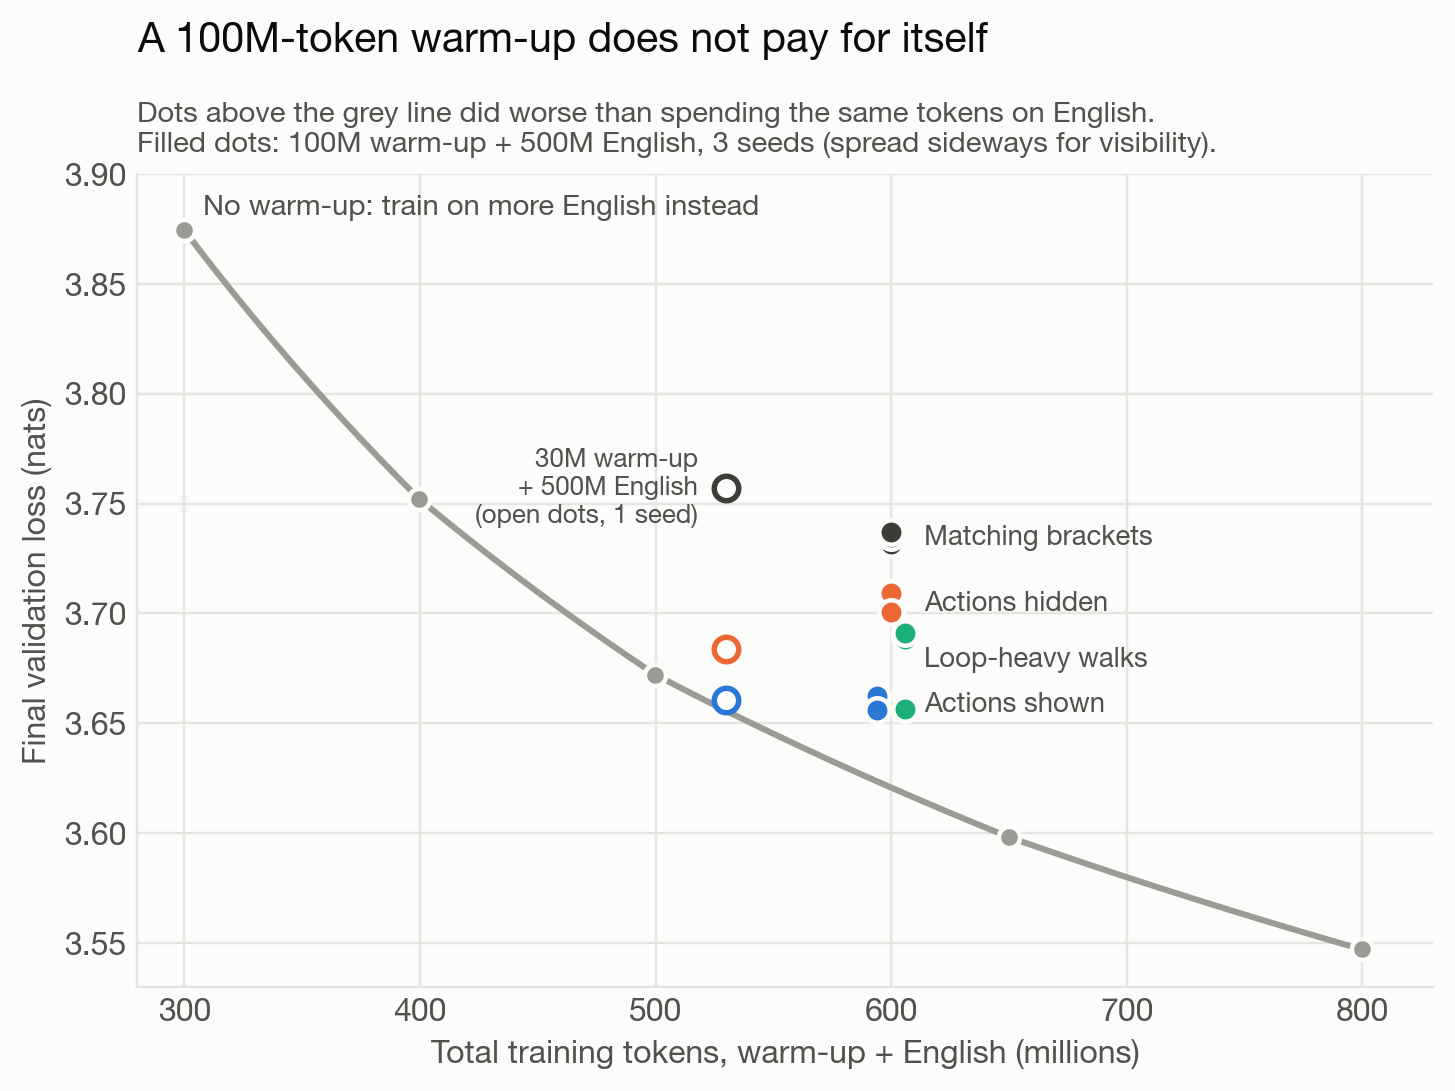
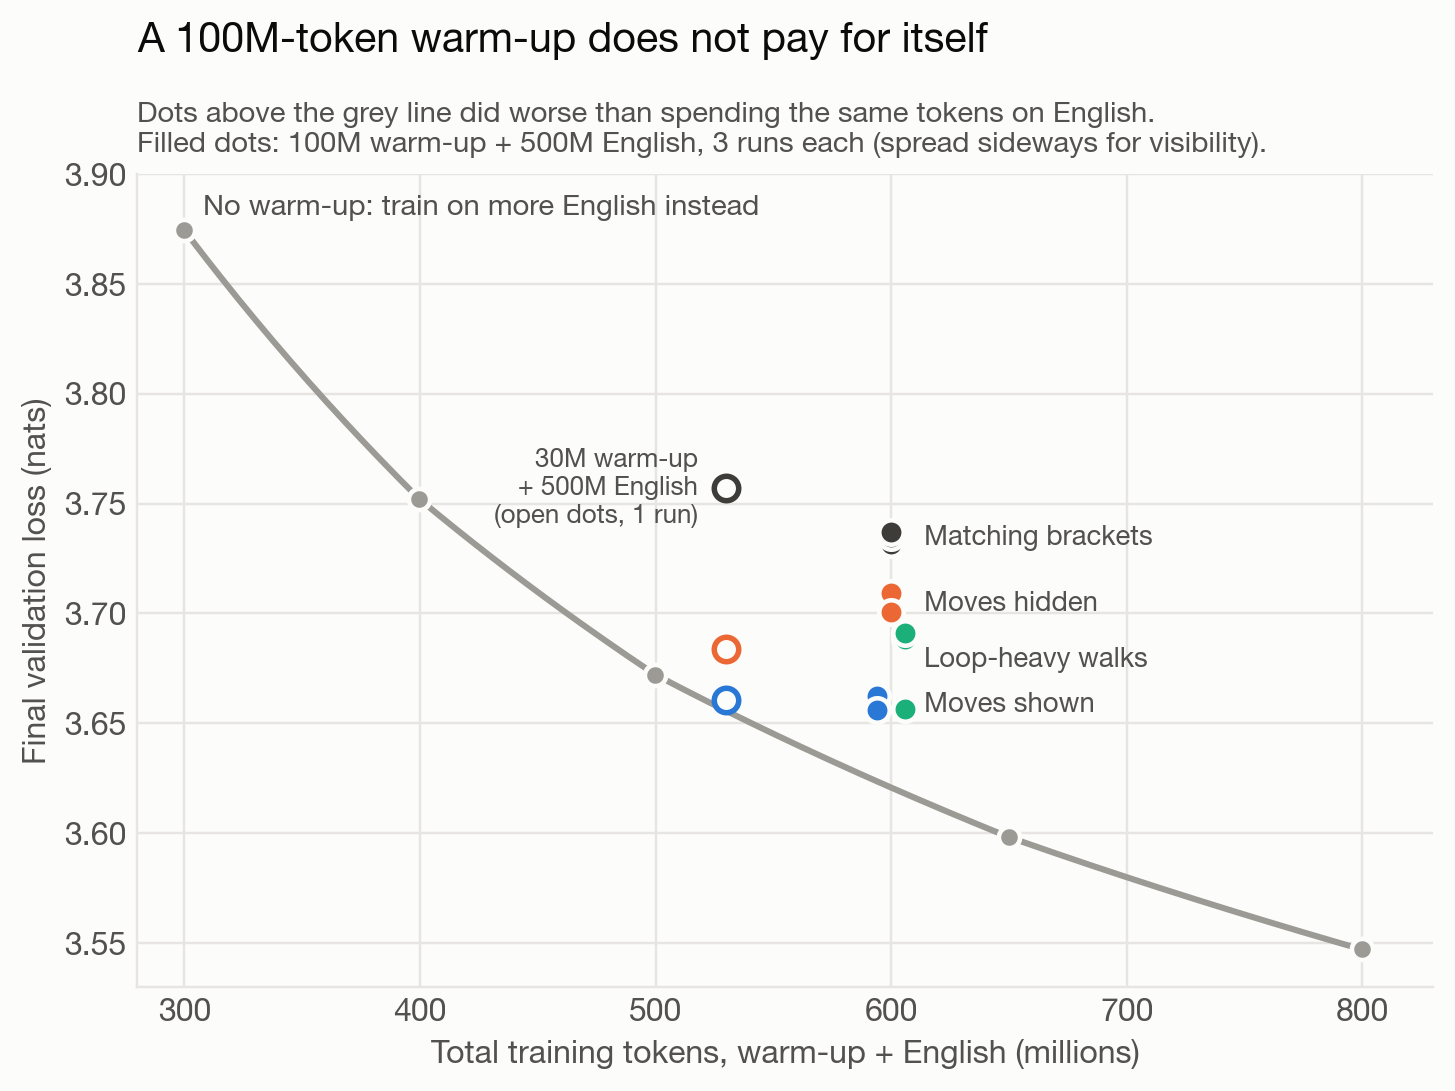
Post: simpler wording and clearer motivation; figure labels match the text

diff --git a/_posts/2026-10-02-action-warm-up-game.md b/_posts/2026-10-02-action-warm-up-game.md
@@ -1,97 +1,105 @@
 ---
-title: "A warm-up game with actions helps a small language model, but not enough to pay for itself"
+title: "A short grid game helps a language model learn English, but does not pay for itself"
 date: 2026-10-02 15:30:00 +0530
-description: "A short warm-up game in which a small language model moves around a grid helps it learn English slightly, and only when it can see its own moves. At the dose I tested, the warm-up does not pay for itself."
+description: "Before training a small language model on English, I had it play a grid game. Seeing its own moves helped it learn English a little, but the game cost more training than it saved."
 tags: [language models, pre-pretraining, synthetic data]
 ---
 
-I gave a small language model a short game to play before it read any English. In the game, the model moves around a grid and has to remember what it saw at each spot. When the model could see its own moves, it later learned English slightly better than a model with no warm-up. When the moves were hidden, it learned English worse. The gain is real and repeats across seeds. It is also too small: at the dose I tested, spending the same tokens on English would have done more good.
+**In short**
+
+- Before training a small language model on English, I had it play a simple game: walk around a grid and remember what it saw.
+- When the model could see its own moves, it later learned English a little better. When the moves were hidden, it learned English worse.
+- The gain was consistent across runs, but small. The game cost more training than it saved.
 
 ## Why try this
 
-Training a language model costs tokens. One way to cut that cost is a short warm-up on synthetic data before the real training starts. Hu et al. (2025) warmed up a 1B model on a formal language of matching brackets and reached the same loss with 33% fewer tokens. Lee et al. (2026) warmed up models on neural cellular automata and reported up to 1.6x faster convergence.
+Language models are expensive because they learn from enormous amounts of text. One way to save some of that text is a short warm-up on made-up data before the real training starts. Earlier work found that this can help. Hu et al. (2025) warmed up a 1B-parameter model on a simple formal language of matching brackets. It reached the same loss, a standard measure of how well a model predicts text, with 33% fewer tokens. Lee et al. (2026) warmed up models on patterns from cellular automata and reported up to 1.6 times faster convergence.
 
-In both cases the model watches structure go by. It never acts. Language often asks for something else: keep track of things as they change, and look up a fact by where or when you saw it. A model of the hippocampus called the Tolman-Eichenbaum Machine (Whittington et al., 2020) splits this into two parts. One part learns the structure of a space. The other links that structure to what is seen there.
+In those warm-ups the model only watches patterns go by. It never acts. Much of language is about keeping track of things that change, such as who has what, or what was said a few sentences ago.
 
-So the question was simple. If the warm-up has actions that move through freshly labelled content, does the model learn English faster? And if it does, is it the actions that help?
+In the brain, one region, the hippocampal formation, supports both finding your way through space and remembering how things relate. A model of that region, the Tolman-Eichenbaum Machine (Whittington et al., 2020), splits the job in two. One part learns the layout of a space. The other ties that layout to what is seen in it.
+
+That suggested a simple experiment. Give a language model a warm-up in which it moves through a world and has to keep track of where it is. Then ask two questions. Does the warm-up make English cheaper to learn? And if it does, is it the moves that help?
 
 ## The game
 
 ![The game](/images/posts/action-warmup/fig0_game.png)
 
-*The game, simplified. Real games use grids from 4 x 4 to 12 x 12 and 256 possible labels.*
+*A simplified example. The real games use grids from 4 x 4 to 12 x 12 and 256 possible labels.*
 
-Each game takes place in a small grid whose edges wrap around. Every spot gets a random label, and the labels are reshuffled at the start of every game, so the model cannot memorise them. The game is written as text: a label, a move, a label, a move, and so on.
+Each game takes place on a small grid whose edges wrap around. Every square gets a random label, and the labels change every game, so nothing can be memorised. The game is written as text: a label, a move, the next label, the next move, and so on.
 
-The model is graded only on predicting the labels. The label at a new spot cannot be predicted. The label at a spot the model has visited before can be predicted, but only if the model does two things. It has to work out where it is by adding up its moves, and it has to recall the label it saw there earlier.
+The model is scored only on predicting the labels. It cannot predict the label of a square it has never visited. It can predict the label of a square it has visited before, but only by working out where it is from its moves and recalling what it saw there.
 
-The key control hides the moves. Every move becomes the same blank token, and everything else stays identical. If the warm-up helps only when the moves are visible, the moves are doing the work.
+The control version hides the moves. Every move becomes the same blank token, and nothing else changes. If only the version with visible moves helps, the moves are what matter.
 
-## The setup
+## The experiment
 
-Every run trained the same 51M-parameter transformer. A run had two stages:
+Every run used the same small language model, with 51M parameters. Each run had two stages:
 
-1. A warm-up of 100M tokens of synthetic data, or no warm-up.
-2. 500M tokens of English web text (FineWeb-Edu), identical in every run.
+1. An optional warm-up of 100M tokens.
+2. 500M tokens of English web text (FineWeb-Edu), the same English in every run.
 
 I compared five warm-ups against no warm-up:
 
-| | Warm-up |
+| | Warm-up before English |
 |---|---|
 | A | None |
-| B | Matching brackets (k-Shuffle Dyck), using Hu et al.'s generator |
-| C | The grid game with the moves hidden |
-| D | The grid game with the moves shown |
-| E | The grid game with walks built from small loops |
-| R | The grid game's format filled with random labels |
+| B | Matching brackets, the formal language used by Hu et al. |
+| C | The grid game, moves hidden |
+| D | The grid game, moves shown |
+| E | The grid game, with walks made of small loops |
+| R | The grid game's layout filled with random labels, so there is nothing to learn |
 
-Each condition ran with 3 random seeds. I also trained the no-warm-up model on 300M, 400M, 650M and 800M English tokens. Those runs give a ruler: any final loss can be converted into "how much English the plain model needs to reach it". I wrote down the predictions before the runs started.
+I trained each setting three times, from different random starting points. I also trained the model with no warm-up on more and less English, from 300M to 800M tokens. That gives a yardstick: for any result, I can ask how much English the plain model needs to match it.
 
-All 25 runs fit on one rented GPU (an NVIDIA L40S) in about 18 hours, for about $46.
+I wrote down my predictions before running anything. All 25 runs took about 18 hours on one rented GPU and cost about $46.
 
-## The actions matter
+## Result 1: the moves matter
 
 ![Final loss relative to no warm-up](/images/posts/action-warmup/fig1_loss.png)
 
-The game with visible moves (D) is the only warm-up that clearly beat no warm-up. Its final loss was 0.021 nats lower on average, and it was lower in all three seeds. The same game with hidden moves (C) finished 0.025 nats higher than no warm-up. Loop-heavy walks (E) came out level on average, with one good seed and two bad ones.
+The score here is validation loss: how well the model predicts English it has never seen. Lower is better.
 
-The gap between them is the cleanest result in the study. D beat C by 0.047, 0.047 and 0.045 nats in the three seeds. The only difference between the two is whether the moves were visible.
+The game with visible moves (D) is the only warm-up that clearly beat no warm-up. It came out ahead in all three runs, by 0.021 on average. The same game with hidden moves (C) made the model worse, by 0.025 on average. Loop-heavy walks (E) came out level on average.
 
-## The warm-up does not pay for itself
+The gap between D and C is the clearest result. D beat C in every run, by 0.045 to 0.047. The only thing that separates them is whether the moves were visible.
+
+## Result 2: the game does not pay for itself
 
 ![Does the warm-up pay](/images/posts/action-warmup/fig2_pay.png)
 
-A lower loss is not enough. The warm-up costs tokens too, so the fair question is whether the same tokens would have done more good as English.
+The game also costs training. The fair test is whether the same tokens would have done more good as English.
 
-They would have. The game with moves cost 100M warm-up tokens plus 500M English tokens. The plain model reaches the same loss after 517M to 529M English tokens. So the 100M game tokens were worth only 18M to 29M English tokens. Measured against each seed's own no-warm-up run, the figure is 28M to 45M. Either way it is far short of 100M. On average, every other warm-up did worse.
+They would have. The model that played the game spent 100M tokens on the game and 500M on English. The plain model matches it after 517M to 529M tokens of English alone. So the 100M game tokens were worth only 18M to 29M tokens of English. Measured against each run's own no-warm-up partner, the figure is 28M to 45M. Either way, it falls well short of 100M. On average, every other warm-up did worse.
 
-A smaller dose looks better. A 30M-token game with moves kept most of the benefit and landed almost exactly on the break-even line. Its 30M game tokens were worth about 21M English tokens. That comes from a single seed, so it is a lead and not a result.
+A shorter game looks better. With 30M game tokens, the model kept most of the gain and landed almost exactly at break-even. Its 30M game tokens were worth about 21M tokens of English. That comes from a single run, so treat it as a hint.
 
-## The model keeps using what the game built
+## Result 3: the model reuses what the game built
 
 ![Head ablation](/images/posts/action-warmup/fig3_heads.png)
 
-During the game, some attention heads learn to look back from a revisit to the earlier visit of the same spot. I found the four strongest such heads at the end of the game. Then I switched them off in the finished model, after all the English training.
+During the game, some attention heads, the parts of the model that decide where to look, learn to look back at the earlier visit to the same square. I found the four strongest of these heads and switched them off in the finished model, after all its English training.
 
-In two of three seeds, this hurt the model's English more than switching off any of 20 random sets of four heads. Recall of facts given earlier in a prompt dropped by 5.6 and 9.8 percentage points. The in-context learning score also got worse, though that score is noisy at this model size. The same four heads in the no-warm-up model mattered less. In the third seed, the selected heads were no different from random ones.
+In two of the three runs, this hurt the model's English more than switching off any of 20 random sets of four heads. Its recall of facts given earlier in a prompt dropped by 5.6 and 9.8 percentage points. A noisier measure of learning from context also got worse. The same four heads mattered less in the model that never played the game. In the third run, the chosen heads behaved like random ones.
 
-So in two of three seeds, heads built for the game still did work in language.
+So in two of three runs, parts of the model built for the game were still doing useful work in language.
 
-## What did not work
+## Surprises
 
-**Loop-heavy walks (E) transferred worse than plain random walks.** E scored higher on its own game, yet two of its three seeds ended up worse at English than no warm-up. The third seed matched the random-walk game.
+Loop-heavy walks (E) did worse than plain random walks. E scored higher on its own game, yet two of its three runs ended up worse at English than no warm-up.
 
-**Matching brackets (B) were the worst structured warm-up.** This does not contradict Hu et al. My setup differed from theirs in three ways: a smaller model, a new embedding table after the warm-up, and a shorter context. A 30M-token bracket warm-up did no better than the 100M one.
+Matching brackets (B) did worst of the structured warm-ups. This does not contradict Hu et al., because my setup differs from theirs: a smaller model, a fresh vocabulary table after the warm-up, and shorter inputs. A 30M-token bracket warm-up did no better.
 
-**Random labels (R) did damage.** A warm-up with nothing to learn raised the final loss by 0.26 to 0.34 nats. Those models largely failed to form induction heads during English training, the circuits that copy patterns from earlier in the text. I have not tested why.
+A warm-up with nothing to learn (R) did real damage: its loss was 0.26 to 0.34 higher. These models mostly failed to form induction heads, the circuits a model uses to copy patterns from earlier in the text. I have not tested why.
 
 ## Limits
 
-This is a small study. The model has 51M parameters, and the dose test has one seed per point. The grammar test could not tell the five main conditions apart. On in-context learning, the plain model came out slightly ahead of D, the opposite of what I predicted. All of the gains I measured are fractions of a percent of the total loss.
+The model is small, and the shorter-game test was run once. The grammar test could not tell the five main settings apart. On the measure of learning from context, the plain model came out slightly ahead of D, the opposite of what I predicted. Every improvement in loss I measured is under 1% of the total loss.
 
-## What I would do next
+## Next
 
-The next step is a dose sweep of the action game at 10M, 20M, 30M and 50M tokens, with three seeds each. That is about 9 GPU-hours, or about $23 on the same hardware. If a small dose gives a real net saving, the idea is worth testing on a larger model.
+The next step is to test shorter games: 10M, 20M, 30M and 50M tokens, three runs each. That is about 9 GPU-hours, or about $23. If a short game gives a real saving, it is worth trying on a larger model.
 
 ## References
 
@@ -99,4 +107,3 @@ The next step is a dose sweep of the action game at 10M, 20M, 30M and 50M tokens
 - Lee, Han, Kumar and Agrawal. *Training Language Models via Neural Cellular Automata.* 2026. [arXiv:2603.10055](https://arxiv.org/abs/2603.10055)
 - Whittington, Muller, Mark, Chen, Barry, Burgess and Behrens. *The Tolman-Eichenbaum Machine: Unifying Space and Relational Memory through Generalization in the Hippocampal Formation.* Cell 183(5), 2020. [doi:10.1016/j.cell.2020.10.024](https://doi.org/10.1016/j.cell.2020.10.024)
 - Olsson et al. *In-context Learning and Induction Heads.* Transformer Circuits Thread, 2022. [link](https://transformer-circuits.pub/2022/in-context-learning-and-induction-heads/index.html)
-
